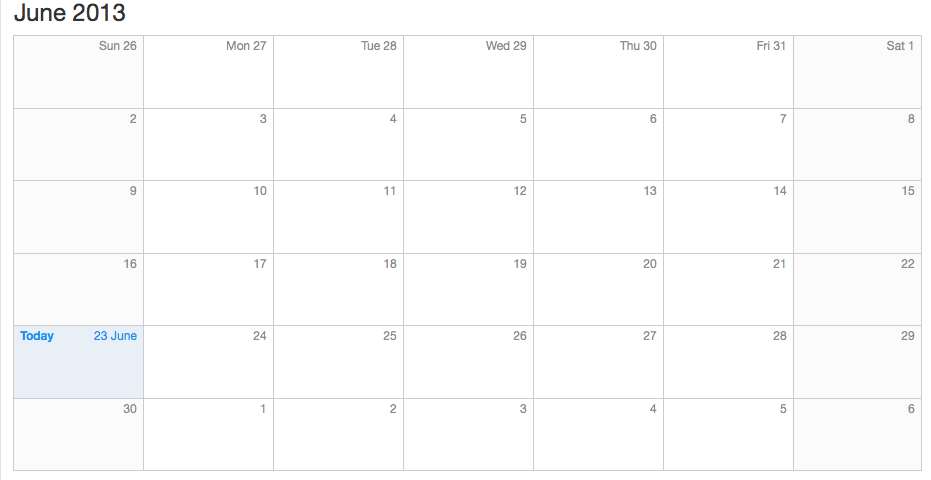
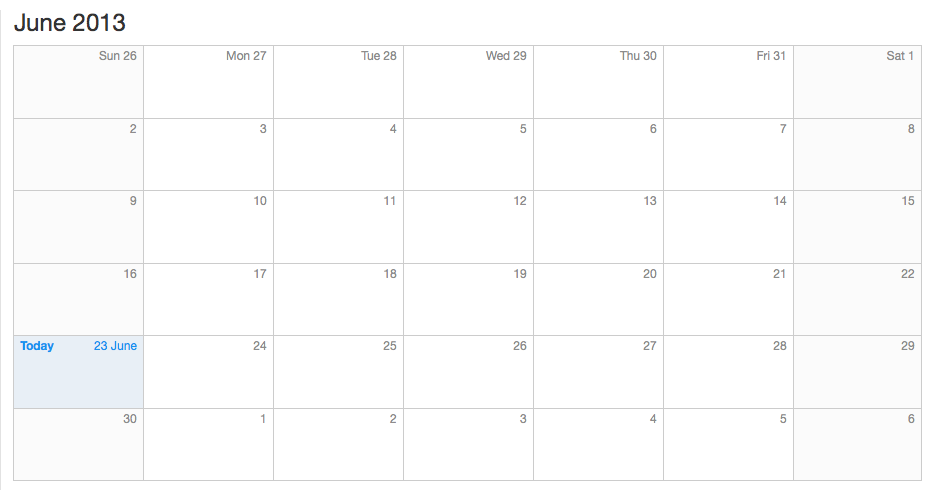
added in keyboard and spaced calendar

diff --git a/js/main.js b/js/main.js
@@ -10,6 +10,9 @@ $(document).ready(function () {
   $('.hideclass').click(function(){
     $('.divisionopaque').hide();
     $('.stopbox').hide();
+    $('#dummy').hide();
+    $('#calendarImage').hide();
+    $('#keypadImage').hide();
     clearInterval(timerItself);
     $('#timer').text('0:00');
   });
@@ -30,12 +33,6 @@ $(document).ready(function () {
     $('#headText3').text('My eye is in pain 8/10');
   });
 
-  
-
-
-
-
-
   $('#calendar').click(function(){
     $('.divisionopaque').show();
     $('#calendarImage').show();
@@ -44,7 +41,17 @@ $(document).ready(function () {
     $('.divisionopaque').hide();
     $('#calendarImage').hide();
   });
+
+  $('#keyboard').click(function(){
+    $('.divisionopaque').show();
+    $('#keypadImage').show();
+  });
+  $('#keypadImage').click(function(){
+    $('.divisionopaque').hide();
+    $('#keypadImage').hide();
+  });
 });
+
 
 
 

diff --git a/css/main.css b/css/main.css
@@ -278,7 +278,25 @@ a:active {
 	position: absolute;
 	margin-top: -1146px;
 }
-#changeText
+#changeText,#calendar,#calendarImage,#keyboard
 {
 	cursor: pointer;
+}
+#calendarImage
+{
+	position:absolute;
+	display:none;
+	z-index:99999;
+	top:100px;
+	left:50%;
+	margin-left: -465px;
+}
+#keypadImage
+{
+	position:absolute;
+	display:none;
+	z-index:99999;
+	top:238px;
+	left:50%;
+	margin-left: -512px;
 }

diff --git a/application/views/templates/footer.php b/application/views/templates/footer.php
@@ -5,7 +5,7 @@
 					<a href="<?php echo base_url();?>"><div class="navButton1"><i class="icon-home icon-3x" style="float:left;"></i><p>HOME</p></div></a>
 					<div id="calendar" class="navButton1"><i class="icon-calendar icon-3x" style="float:left;"></i><p>CALENDAR</p></div>
 					<a href="<?php echo  base_url($back_url);?>"><div class="navButton1"><i class="icon-arrow-left icon-3x" style="float:left;"></i><p>BACK</p></div></a>
-					<a href=""><div id="keyboard" class="navButton1"><i class="icon-keyboard icon-3x" style="float:left;"></i><p>KEYBOARD</p></div></a>
+					<div id="keyboard" class="navButton1"><i class="icon-keyboard icon-3x" style="float:left;"></i><p>KEYBOARD</p></div>
 					<div style="clear:both;"></div>
 				</div>
 				<div id="navButton2"><p style="float:left;">HELP<span style="margin-left:10px;"></span><i class="icon-exclamation-sign"></i></p></div>
@@ -25,7 +25,11 @@
 		<div id="wrapper">
 			<img id="dummy" src="<?php echo base_url();?>img/dummytext.png">
 		</div>
-		<img id="calendarImage" style="position:absolute; display:none; z-index:99999; top:0; left:0;" src="<?php echo base_url();?>img/june2013.png">
+		<img id="calendarImage" src="<?php echo base_url();?>img/june2013.png">
+		<img id="keypadImage" src="<?php echo base_url();?>img/TouchKeyboard.png">
+		<!-- <embed src="<?php echo base_url();?>img/FT.mp3" autostart=false width=1 height=1 id="sound1"
+enablejavascript="true"> -->
+<div id="mp3div"></div>
 	</body>
 </html>
 
